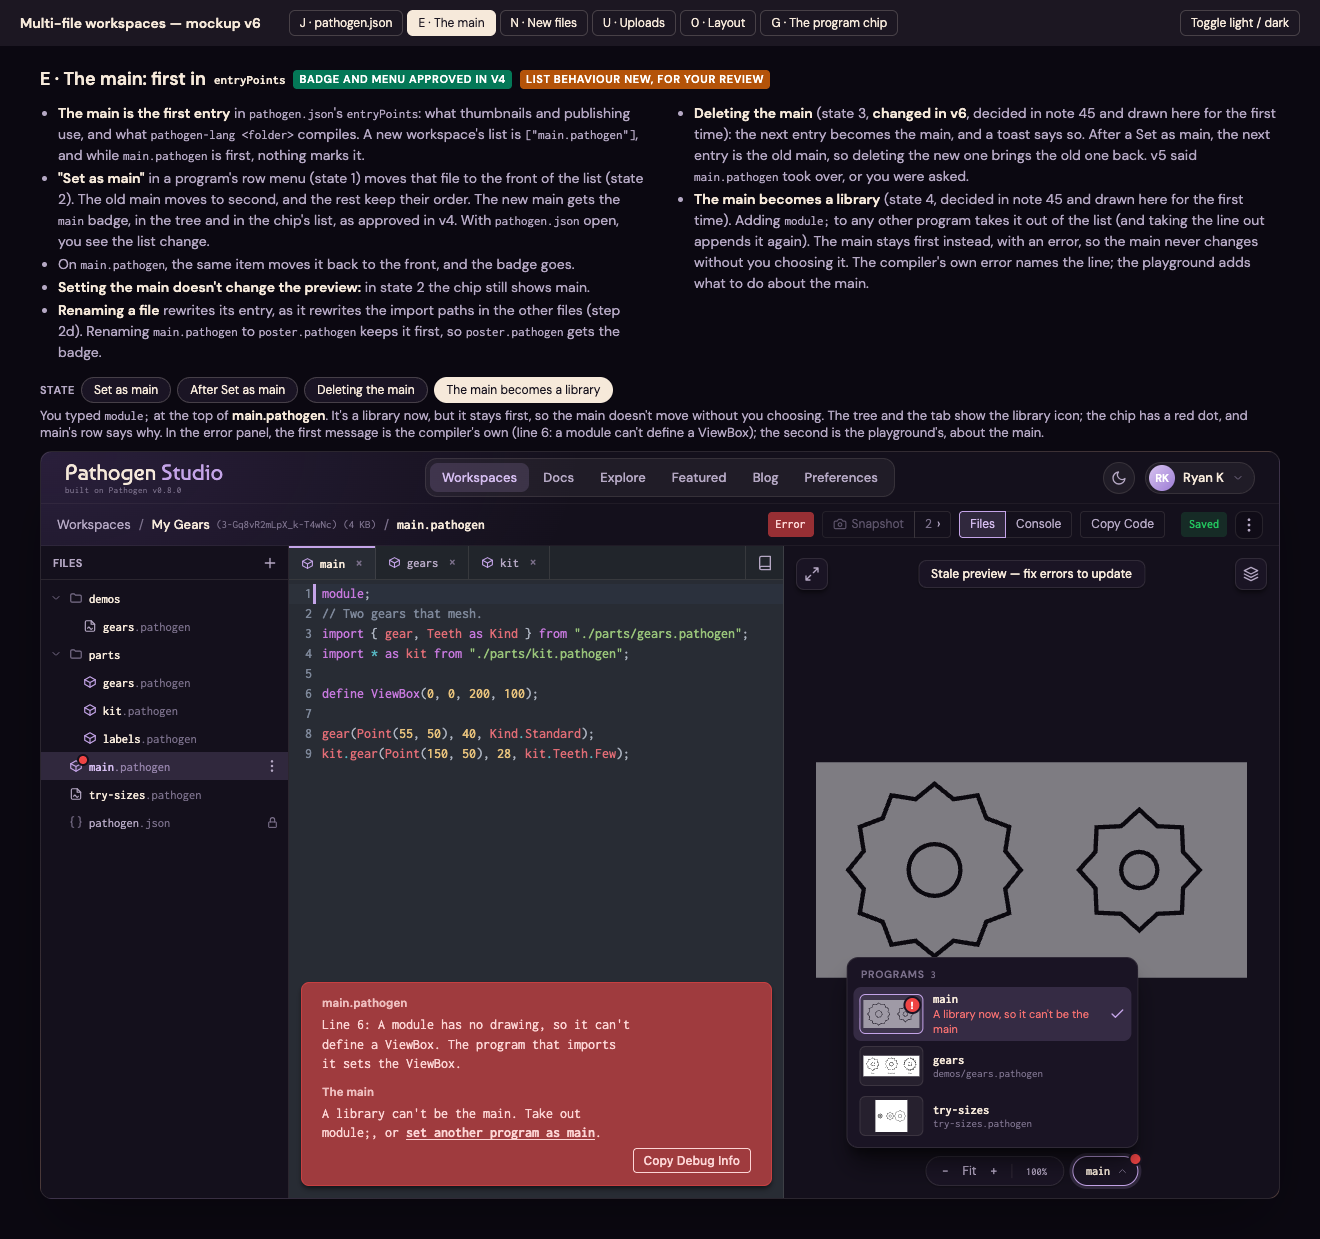
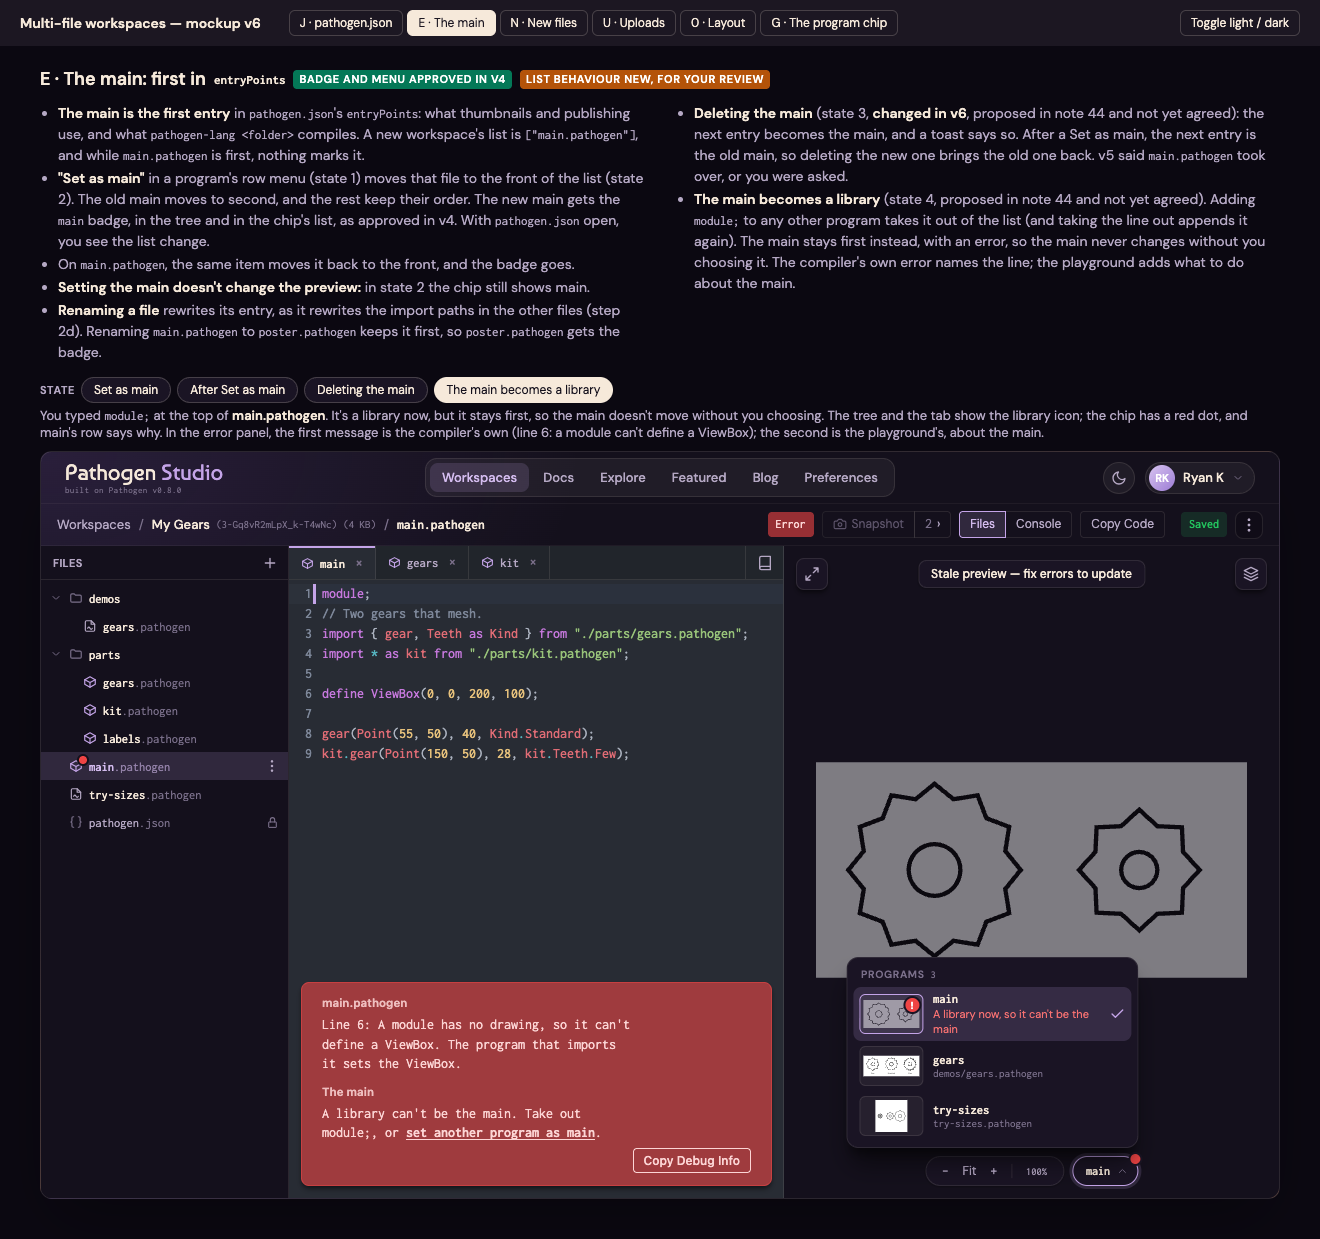
docs(modules): v6 marks two entry-point behaviours as proposals
Deleting the main (the next entry takes over) and the main gaining
module; (it stays first, with an error) were in note 44's recommendation
but not in the summary the user answered, so they aren't decided. Note 45
moves them to "Not answered yet", and screen E's notes say "proposed in
note 44 and not yet agreed".

Also: screen U now says other file types can arrive inside a folder from
Upload folder..., as screen J does. Note 45 records that state 4's error
is the compiler's own (checked with the CLI: line 6, the ViewBox message).
Screenshots retaken; 29 states in light and dark, no page errors.

Changed region(s): [[0.528, 0.092, 0.9629, 0.2454]]

diff --git a/project-docs/modules/phase-2-mockups-v6/multi-file-mockup-v6.html b/project-docs/modules/phase-2-mockups-v6/multi-file-mockup-v6.html
@@ -560,7 +560,7 @@
       </ul>
       <ul>
         <li><b>After</b> (state 3): the new rows flash, and a toast says what was added. One file opens in a tab; several don't. The preview doesn't change; uploaded programs go at the end of the chip's list and of <code>entryPoints</code>.</li>
-        <li><b>What can be added</b> (state 4): <code>.pathogen</code> files only, in phase 2. The picker shows only <code>.pathogen</code> files, so other types arrive only by drag and drop. The toast names each file left out, and why. A <code>pathogen.json</code> gets a message of its own (screen J, state 5).</li>
+        <li><b>What can be added</b> (state 4): <code>.pathogen</code> files only, in phase 2. The file picker shows only <code>.pathogen</code> files, so other types arrive only by drag and drop or inside a folder from Upload folder…. The toast names each file left out, and why. A <code>pathogen.json</code> gets a message of its own (screen J, state 5).</li>
         <li><b>Decided in your v5 review: font files</b> wait for the work on other file types (.json, .csv, .svg and fonts), after phase 2. Until then they're refused with the playground's existing font message.</li>
         <li><b>Open:</b> size limits, per file and per workspace (the server has no limit on code today; it's on the backlog): storage design, 2b. Importing a whole project folder is step 2g.</li>
         <li>Moving a file by dragging it within the tree is a rename, so it rewrites imports too. Not drawn here.</li>
@@ -652,8 +652,8 @@
         <li><b>Renaming a file</b> rewrites its entry, as it rewrites the import paths in the other files (step 2d). Renaming <code>main.pathogen</code> to <code>poster.pathogen</code> keeps it first, so <code>poster.pathogen</code> gets the badge.</li>
       </ul>
       <ul>
-        <li><b>Deleting the main</b> (state 3, <b>changed in v6</b>, decided in note 45 and drawn here for the first time): the next entry becomes the main, and a toast says so. After a Set as main, the next entry is the old main, so deleting the new one brings the old one back. v5 said <code>main.pathogen</code> took over, or you were asked.</li>
-        <li><b>The main becomes a library</b> (state 4, decided in note 45 and drawn here for the first time). Adding <code>module;</code> to any other program takes it out of the list (and taking the line out appends it again). The main stays first instead, with an error, so the main never changes without you choosing it. The compiler's own error names the line; the playground adds what to do about the main.</li>
+        <li><b>Deleting the main</b> (state 3, <b>changed in v6</b>, proposed in note 44 and not yet agreed): the next entry becomes the main, and a toast says so. After a Set as main, the next entry is the old main, so deleting the new one brings the old one back. v5 said <code>main.pathogen</code> took over, or you were asked.</li>
+        <li><b>The main becomes a library</b> (state 4, proposed in note 44 and not yet agreed). Adding <code>module;</code> to any other program takes it out of the list (and taking the line out appends it again). The main stays first instead, with an error, so the main never changes without you choosing it. The compiler's own error names the line; the playground adds what to do about the main.</li>
       </ul>
     </div>
   </div>

diff --git a/project-docs/modules/phase-2-mockups-v6/multi-file-mockup-v6.template.html b/project-docs/modules/phase-2-mockups-v6/multi-file-mockup-v6.template.html
@@ -560,7 +560,7 @@
       </ul>
       <ul>
         <li><b>After</b> (state 3): the new rows flash, and a toast says what was added. One file opens in a tab; several don't. The preview doesn't change; uploaded programs go at the end of the chip's list and of <code>entryPoints</code>.</li>
-        <li><b>What can be added</b> (state 4): <code>.pathogen</code> files only, in phase 2. The picker shows only <code>.pathogen</code> files, so other types arrive only by drag and drop. The toast names each file left out, and why. A <code>pathogen.json</code> gets a message of its own (screen J, state 5).</li>
+        <li><b>What can be added</b> (state 4): <code>.pathogen</code> files only, in phase 2. The file picker shows only <code>.pathogen</code> files, so other types arrive only by drag and drop or inside a folder from Upload folder…. The toast names each file left out, and why. A <code>pathogen.json</code> gets a message of its own (screen J, state 5).</li>
         <li><b>Decided in your v5 review: font files</b> wait for the work on other file types (.json, .csv, .svg and fonts), after phase 2. Until then they're refused with the playground's existing font message.</li>
         <li><b>Open:</b> size limits, per file and per workspace (the server has no limit on code today; it's on the backlog): storage design, 2b. Importing a whole project folder is step 2g.</li>
         <li>Moving a file by dragging it within the tree is a rename, so it rewrites imports too. Not drawn here.</li>
@@ -652,8 +652,8 @@
         <li><b>Renaming a file</b> rewrites its entry, as it rewrites the import paths in the other files (step 2d). Renaming <code>main.pathogen</code> to <code>poster.pathogen</code> keeps it first, so <code>poster.pathogen</code> gets the badge.</li>
       </ul>
       <ul>
-        <li><b>Deleting the main</b> (state 3, <b>changed in v6</b>, decided in note 45 and drawn here for the first time): the next entry becomes the main, and a toast says so. After a Set as main, the next entry is the old main, so deleting the new one brings the old one back. v5 said <code>main.pathogen</code> took over, or you were asked.</li>
-        <li><b>The main becomes a library</b> (state 4, decided in note 45 and drawn here for the first time). Adding <code>module;</code> to any other program takes it out of the list (and taking the line out appends it again). The main stays first instead, with an error, so the main never changes without you choosing it. The compiler's own error names the line; the playground adds what to do about the main.</li>
+        <li><b>Deleting the main</b> (state 3, <b>changed in v6</b>, proposed in note 44 and not yet agreed): the next entry becomes the main, and a toast says so. After a Set as main, the next entry is the old main, so deleting the new one brings the old one back. v5 said <code>main.pathogen</code> took over, or you were asked.</li>
+        <li><b>The main becomes a library</b> (state 4, proposed in note 44 and not yet agreed). Adding <code>module;</code> to any other program takes it out of the list (and taking the line out appends it again). The main stays first instead, with an error, so the main never changes without you choosing it. The compiler's own error names the line; the playground adds what to do about the main.</li>
       </ul>
     </div>
   </div>

diff --git a/project-docs/modules/45-entry-points-decisions.md b/project-docs/modules/45-entry-points-decisions.md
@@ -16,8 +16,7 @@
 | What the list means | It sets the order. It doesn't decide which files are programs (`module;` does that). The first entry is the main. Listed programs come first wherever several are shown; programs that aren't listed still compile and still appear, after the listed ones |
 | The key | `entryPoints` |
 | No key | The same as `["main.pathogen"]`. `{}` still just marks a project folder. This also fixes the CLI gap: a folder whose `pathogen.json` is `{}` gets `main.pathogen` |
-| Playground upkeep | A new workspace starts with `["main.pathogen"]`. New and uploaded programs are appended. Rename rewrites the entry. Delete drops it; if it was the main, the next entry becomes the main and a toast says so. Set as main moves the file to the front |
-| A program that gains `module;` | The list drops it, and appends it again if the header goes. If it's the main, it stays first and the chip shows an error, so the main never changes without you choosing it |
+| Playground upkeep | A new workspace starts with `["main.pathogen"]`. New and uploaded programs are appended. Rename rewrites the entry. Delete drops it. Set as main moves the file to the front |
 | `pathogen.json` in the tree | Shown in every workspace, new ones included: pinned as the last row of the top level, muted, with a lock. Read-only for you; the playground writes it |
 | How it's stored | As workspace data. The file is written from it the same way every time (`JSON.stringify(…, null, 2)` plus a newline), so it can't disagree with the workspace (storage design, 2b) |
 | Its tab and row | The tab keeps `.json`. No Rename, Delete or Move. The chip leaves it out. Typing does nothing, and a line at the top of the editor says why |
@@ -26,7 +25,13 @@
 
 ## Not answered yet
 
-How each entry is checked (note 44, question 3): a missing file, a library, the same file twice, an empty list. My recommendations are in note 44. They go into the `docs/projects.md` draft, which you approve before any code.
+Note 44 proposed all three of these, and v6 draws the first two, but my summary to you didn't mention them, so "#3" didn't settle them:
+
+1. **Deleting the main:** the next entry becomes the main, and a toast says so. This changes v5, where `main.pathogen` took over, or you were asked (v6 screen E, state 3).
+2. **The main gains `module;`:** it stays first, and the chip shows an error, so the main never changes without you choosing it. Any other program that gains the header leaves the list, and is appended again if the header goes (v6 screen E, state 4).
+3. **How each entry is checked** (note 44, question 3): a missing file, a library, the same file twice, an empty list. These go into the `docs/projects.md` draft, which you approve before any code.
+
+The error in state 4 is the compiler's own: `npx tsx src/cli.ts` on v2's `main.pathogen` with `module;` added as line 1 stops at line 6 with that message (checked 2026-11-07).
 
 ## A correction to note 44
 
